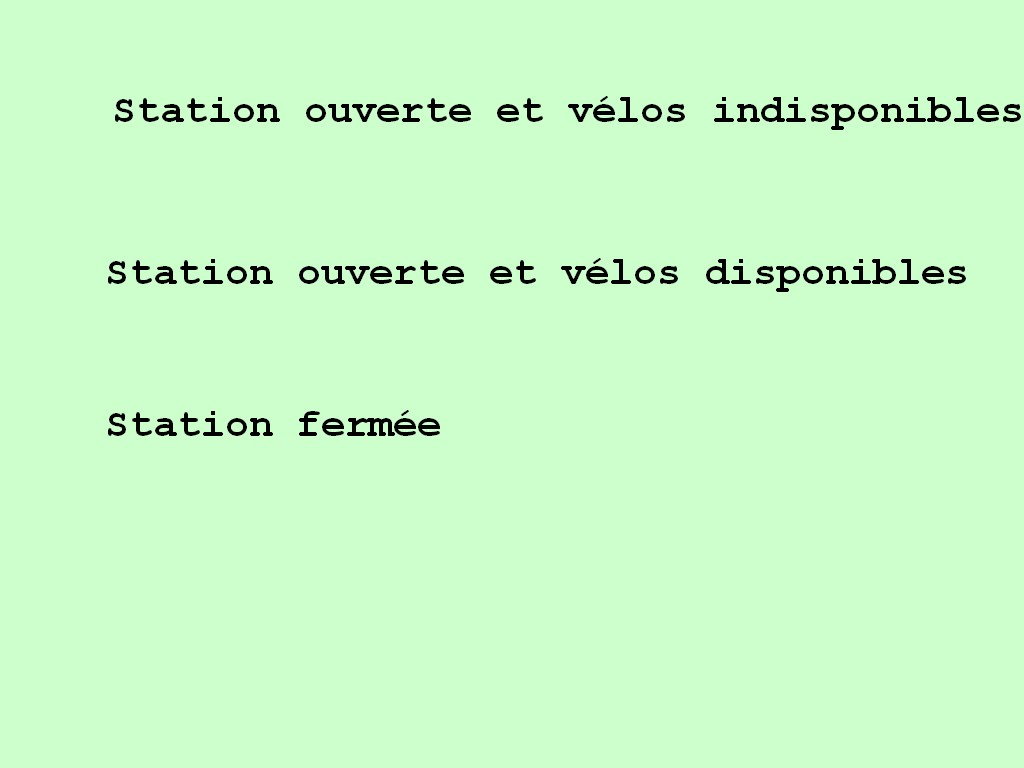
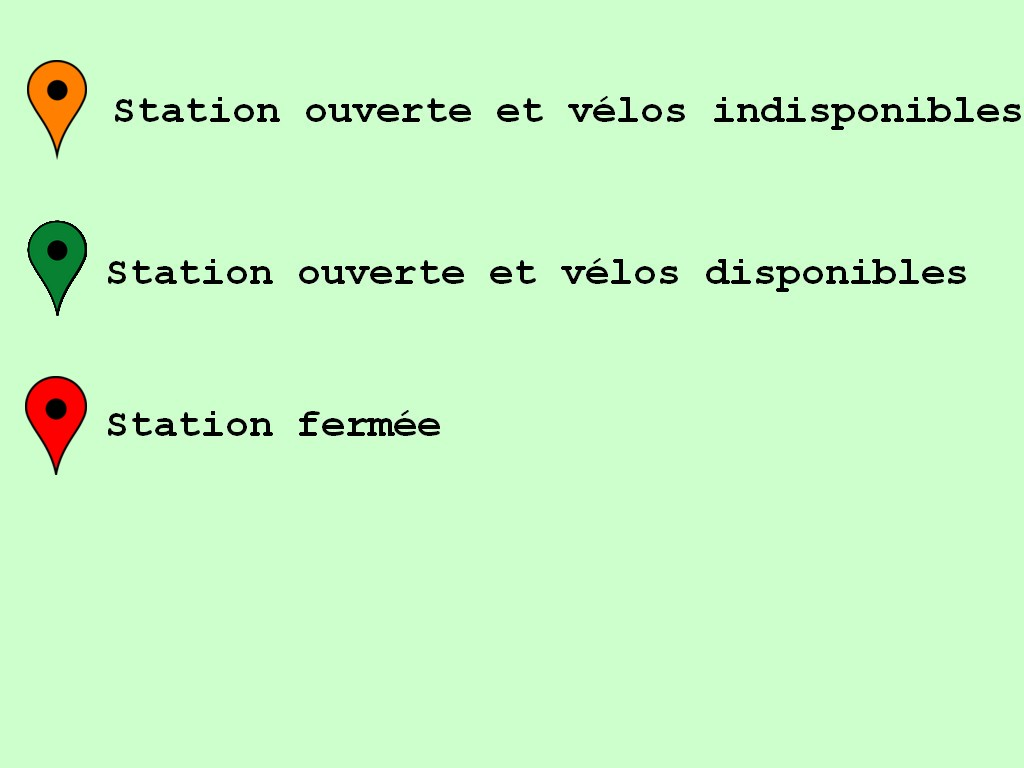
session storage + canvas

Changed region(s): [[0.0, 0.4688, 0.0938, 0.625], [0.0, 0.0625, 0.0938, 0.1875], [0.0, 0.2812, 0.0938, 0.4062]]

diff --git a/P3-DWJ/JS/google-map.js b/P3-DWJ/JS/google-map.js
@@ -5,7 +5,7 @@ class GoogleMap {
     this.initEvents();
   }
 
-  initEvents(){
+  initEvents() {
     const reserverButton = document.querySelector('#book-btn');
     reserverButton.addEventListener('click', () => {
       new ReservationStatus(this.station);
@@ -20,23 +20,12 @@ class GoogleMap {
           const marker = new google.maps.Marker({
             map: this.map,
             position: station.position,
-			/*const iconMarker = {
-			  url: "image/marker-vert.png";
-			  
-			  	  		
-		if (station.available_bikes === 0) {
-        iconMarker.url = "image/marker-orange.png";
-      } 
-		else if (station.status === "CLOSE") {
-        iconMarker.url = "image/marker-rouge.png";
-      }
-	  }
-	  */
-			 
+            icon: `http://maps.google.com/mapfiles/ms/icons/${this.getMarkerColor(station)}.png`
+
           });
           this.createMarkerListener(marker, station);
           return marker;
-        });	
+        });
         new MarkerClusterer(this.map, markers, {imagePath: 'https://developers.google.com/maps/documentation/javascript/examples/markerclusterer/m'});
       }, function (err) {
         console.log(err)
@@ -44,52 +33,51 @@ class GoogleMap {
 
   }
 
+  getMarkerColor(station) {
+    if (station.status === "CLOSED") {
+      return 'red-dot';
+    }
+    if (station.available_bikes === 0) {
+      return 'yellow-dot';
+    }
+    return 'green-dot';
+
+  }
+
 
   createMarkerListener(marker, station) {
     marker.addListener('click', () => {
       this.station = station;
-      const reserver = document.querySelector(".reserver");
-      const info = document.querySelector(".informations");
-      const form = document.querySelector(".formulaire");
-      reserver.style.display = "block";
-      info.style.display = "block";
-	  form.style.display = "block";	
-		
-      info.innerHTML = `
-          <p>Adresse : <span>${station.address}</span><p>
-          <p>Nb de places : <span>${station.available_bike_stands}</span><p>
-          <p>Nb de places disponibles: <span>${station.available_bikes}</span><p>
-          <p>État de la station: <span>${this.translateStatus(station.status)}</span></p>
-        `;
-			/*	affichage du texte + canvas + bton 
-	
-const detailReservation = document.querySelector("#reserver-action");
-const canvas = document.querySelector(".canvas");
-
-if (status === "OUVERTE"){
-	canvas.style.display ="block";
-	detailReservation.innerHTML=
-		`<p>Pour confirmer la réservation de votre vélo, apposez votre signature dans le champ ci-dessous, puis validez.</p>`;
-	
-}else (status === "CLOSE"){
-	canvas.style.display ="none";
-	info.style.display ="none";
-	
-}
-
-if (station.available_bike_stands > 0 ){
-	buttonResever.style.display = "block";
-	}
-	else (station.available_bike_stands === 0 ){
-	buttonResever.style.display = "none";
-    };
-*/
-	});
+      this.showReservationForm();
+    });
   }
+
   translateStatus(status) {
     if (status === 'OPEN') {
       return 'OUVERTE';
     }
     return 'FERMEE';
+  }
+
+  showReservationForm() {
+    const reserver = document.querySelector(".reserver");
+    const info = document.querySelector(".informations");
+    const form = document.querySelector(".formulaire");
+    const detailReservation = document.querySelector("#reserver-action");
+    reserver.style.display = "block";
+    info.style.display = "block";
+    form.style.display = "block";
+
+    info.innerHTML = `
+          <p>Adresse : <span>${this.station.address}</span><p>
+          <p>Nb de places : <span>${this.station.available_bike_stands}</span><p>
+          <p>Nb de places disponibles: <span>${this.station.available_bikes}</span><p>
+          <p>État de la station: <span>${this.translateStatus(this.station.status)}</span></p>
+        `;
+    detailReservation.style.display = 'none';
+    if (this.station.status === "OPEN" && this.station.available_bikes > 0) {
+      detailReservation.style.display = 'block';
+    }
+
   }
 }

diff --git a/P3-DWJ/JS/reservation-status.js b/P3-DWJ/JS/reservation-status.js
@@ -1,43 +1,43 @@
 class ReservationStatus {
 
-  constructor(station){
+  constructor(station) {
     this.station = station;
     this.displayStationInfo();
   }
 
-	
-  displayStationInfo(){
-    if(!this.station){
+
+  displayStationInfo() {
+    if (!this.station) {
       $('.reservation-status').hide();
     } else {
       $('.reservation-status').show();
     }
     $('#confirm-address').text(this.station.address);
-    $('#rest-time').text(infoTimer);
+
+    let restTime = 1200000;
+    const timer = setInterval(() => {
+      restTime -= 1000;
+      this.displayRestTime(restTime);
+      if (restTime === 0) {
+        clearInterval(timer);
+      }
+    }, 1000);
   }
-/*
+
+  displayRestTime(restTime) {
+    const formatedRestTime = moment(restTime).format('mm:ss')
+    $('#rest-time').text(formatedRestTime);
+  }
 	
-	const timer = setInterval(function(){
-		const infoTimer = min + " : " + sec;
-		const min = 20;
-		const sec = 00;
-		
-		if (min === 0){// on stop le timer 
-			clearInterval(calcul);
-			
-		}
-		
-		if (sec =< 60){ // si sec est inférieur a 60 on enlève 1
-			
-			sec--
-					 
-		};
-		
-		else (sec === 0){ // si sec égale 0 on enleve 1 a min et on remet sec a 59
-			min - 1;
-			sec = 59;
-		};
-		console.log (timer);
-	},100);
-*/
+	//session Storage
+	
+sessionStorage.setItem (station, this.station.address);
+sessionStorage.setItem (restTime, $('#rest-time'));
+ 
+if (this.station.address &&& $('#rest-time') === null){
+ sessionStorage.removeItem(this.station.address &&& $('#rest-time'));
+}
+return this.station.address = sessionStorage.getItem(this.station.address),
+	   $('#rest-time') = sessionStorage.getItem($('#rest-time'));
+	
 }

diff --git a/P3-DWJ/index.html b/P3-DWJ/index.html
@@ -50,9 +50,11 @@
       <h3>détails de la station</h3>
       <div class="informations"></div>
 
-      <div id="reserver-action"> 
-        <canvas class="canvas"></canvas>
-        <div class="bouton_reservation">
+      <div id="reserver-action">
+        <p>Pour confirmer la réservation de votre vélo, apposez votre signature dans le champ ci-dessous, puis validez.</p>
+        <canvas id="canvas"></canvas>
+        <div class="reservation-actions">
+          <button id="clear-canvas">Effacer</button>
           <button id="book-btn">Réserver</button>
         </div>
       </div>
@@ -78,9 +80,11 @@
 <script src="https://developers.google.com/maps/documentation/javascript/examples/markerclusterer/markerclusterer.js"></script>
 <script async defer src="https://maps.googleapis.com/maps/api/js?key=AIzaSyA28hjo-ajXVWoNUqqseMEtQ5I88mAWm3c&callback=initMap"></script>
 <script defer src="https://use.fontawesome.com/releases/v5.0.6/js/all.js"></script>
+<script src="https://cdnjs.cloudflare.com/ajax/libs/moment.js/2.22.1/moment.min.js"></script>
 <script type="application/javascript" src="js/lib/jquery-3.3.1.min.js"></script>
 <script type="application/javascript" src="js/slider.js"></script>
 <script type="application/javascript" src="js/reservation-status.js"></script>
+<script type="application/javascript" src="js/canvas.js"></script>
 <script type="application/javascript" src="js/google-map.js"></script>
 <script type="application/javascript" src="js/index.js"></script>
 

diff --git a/P3-DWJ/JS/canvas.js b/P3-DWJ/JS/canvas.js
@@ -1,0 +1,43 @@
+class Canvas {
+
+  constructor() {
+    this.canvas = document.getElementById("canvas");
+    this.context = this.canvas.getContext("2d");
+	this.initMouse();
+	this.context.lineWidth = 10;
+
+	  
+  }
+
+  initMouse(){
+    this.canvas.addEventListener("mousedown", (e) => {
+      if (e.buttons === 1) this.start(this.positionSouris(e))
+    });
+    this.canvas.addEventListener("mouseup", (e) => {
+      this.stop(this.positionSouris(e));
+    });
+    this.canvas.addEventListener("mousemove", (e) => {
+      this.move(this.positionSouris(e));	
+		
+	});	
+}
+		positionSouris(e){// recupere la position du click dans le nav
+		return this.position({
+			x:e.clientX,
+			y:e.clientY,
+
+		});
+}			
+			
+		trait(pos1, pos2){
+			this.context.beginPath();
+			this.context.moveTo(pos1.x,pos1.y);//point de départ
+			this.context.moveTo(pos2.x,pos2.y);//point d'arriver
+			this.context.strokeStyle="Black";//color du trait en noir
+			this.context.stroke();//tracer des lignes
+		}
+			document.getElementById("clear-canvas").addEventListener('click',function(){
+				this.context.clearRect(0,0,canvas.width, canvas.height);
+			})
+	
+}

diff --git a/P3-DWJ/JS/index.js b/P3-DWJ/JS/index.js
@@ -8,8 +8,7 @@ function initMap() {
 }
 
 /**
- * 1. Afficher le canvas et le bouton réservation lorsque station ouverte et velo dispo
- * 2. Changer la couleur des marqueurs (rouge si fermé, orange si pas de velo dispo et vert si reservation possible)
- * 3. Créer le timer (20 min = 120000) ==> setInterval
- * 4. Commencer à regarder la sessionStorage (pour reprendre une réservation déjà effectuée au rechargement de la page)
+ * 1. Faire fonctionner le canvas (nouvelle objet) (https://stackoverflow.com/a/7438862)
+ * 2. Stocker dans le session storage le temps restant et l'adresse de la station réservée
+ * 3. Restaurer la réservation effectuée précédemment au rechargement de la page (si existante et temps non expiré)
  * */

diff --git a/P3-DWJ/css/all.css b/P3-DWJ/css/all.css
@@ -95,10 +95,10 @@ section {
     left: 43%;
 
 }
-.bouton_reservation button, .bouton_confirmation button{
+button{
     padding: 10px;
 }
-.canvas{
+#canvas{
     width: 250px;
     max-width: 95%;
     height: 150px;
@@ -106,6 +106,7 @@ section {
     background-color:burlywood;
     margin: auto;
     display: block;
+    margin-bottom: 10px;
 }
 .reserver{
     position: relative;
@@ -131,8 +132,17 @@ section {
     padding: 10px;
     box-sizing: border-box;
 }
-.formulaire, .canvas , #book-btn{
+.formulaire{
 	display: none;
+}
+
+.reservation-actions{
+    display: flex;
+    justify-content: center;
+}
+
+.reservation-actions > button:first-child{
+    margin-right: 4px;
 }
 
 
